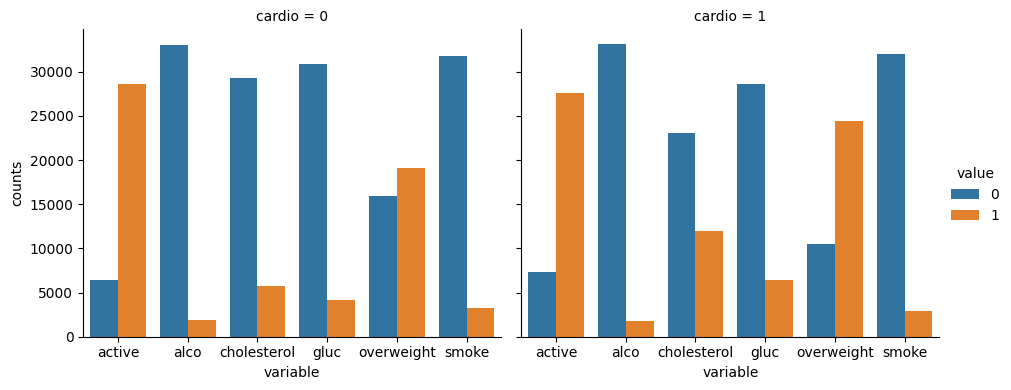
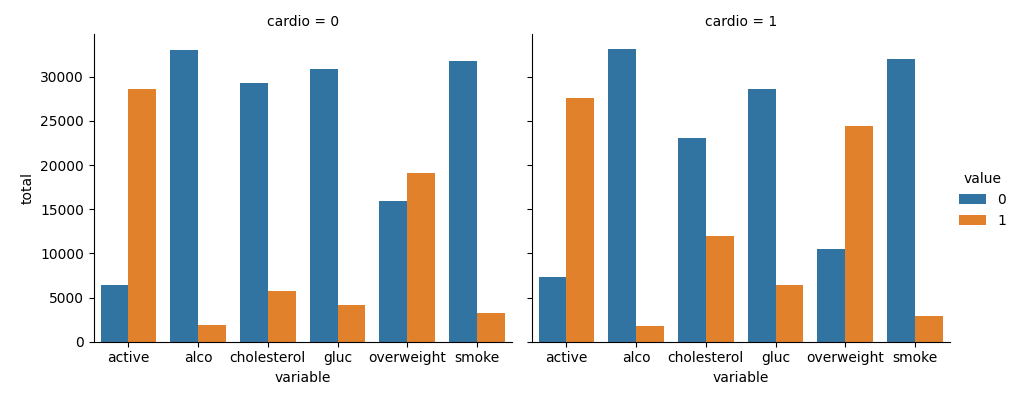
reviewed and finished

diff --git a/medical_data_visualizer.py b/medical_data_visualizer.py
@@ -27,11 +27,12 @@ def draw_cat_plot():
         data=df_cat, x = "variable", y = "counts",
         col="cardio", kind="bar", height=4, hue='value', 
         aspect= 1.2)
+    plot.set_axis_labels("variable", "total")
 
     
 
     # 8
-    fig = plot
+    fig = plot.fig
 
 
     # 9
@@ -52,14 +53,14 @@ def draw_heat_map():
     corr = df_heat.corr()
 
     # 13
-    mask = np.triu(corr)
+    mask = np.triu(np.ones_like(corr))
 
 
     # 14
     fig, ax = plt.subplots(figsize=(12, 10))
 
     # 15
-    ax = sns.heatmap(corr, annot = True, fmt=".1f", mask=mask,
+    sns.heatmap(corr, annot = True, fmt=".1f", mask=mask, ax=ax,
                     linewidth =.5)
 
 
